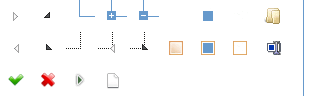
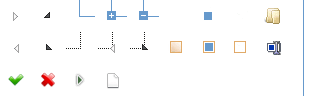
修改jstree

diff --git a/css/title.css b/css/title.css
@@ -271,7 +271,30 @@
     margin-left: 15px;
     min-height: 15px;
 }
+.jstree-default .jstree-icon:empty {
+    width: 20px;
+    height: 20px;
+    line-height: 20px;
+}
+.jstree-default .jstree-checkbox {
+    background-position: -168px -4px;
+}
 
+.jstree-default .jstree-open > .jstree-ocl {
+    background-position: -132px -5px;
+}
+.jstree-default .jstree-anchor > .jstree-undetermined {
+    background-position: -202px -4px;
+}
+.jstree-default .jstree-anchor > .jstree-undetermined:hover {
+    background-position: -202px -35px;
+}
+.jstree-default.jstree-checkbox-selection .jstree-clicked > .jstree-checkbox, .jstree-default .jstree-checked > .jstree-checkbox {
+    background-position: -233px -4px !important;
+}
+.jstree-default .jstree-hovered > .jstree-checkbox {
+    background-position: -168px -35px;
+}
 
 .chk_region, .chk_city {
     margin-left: 5px !important;
